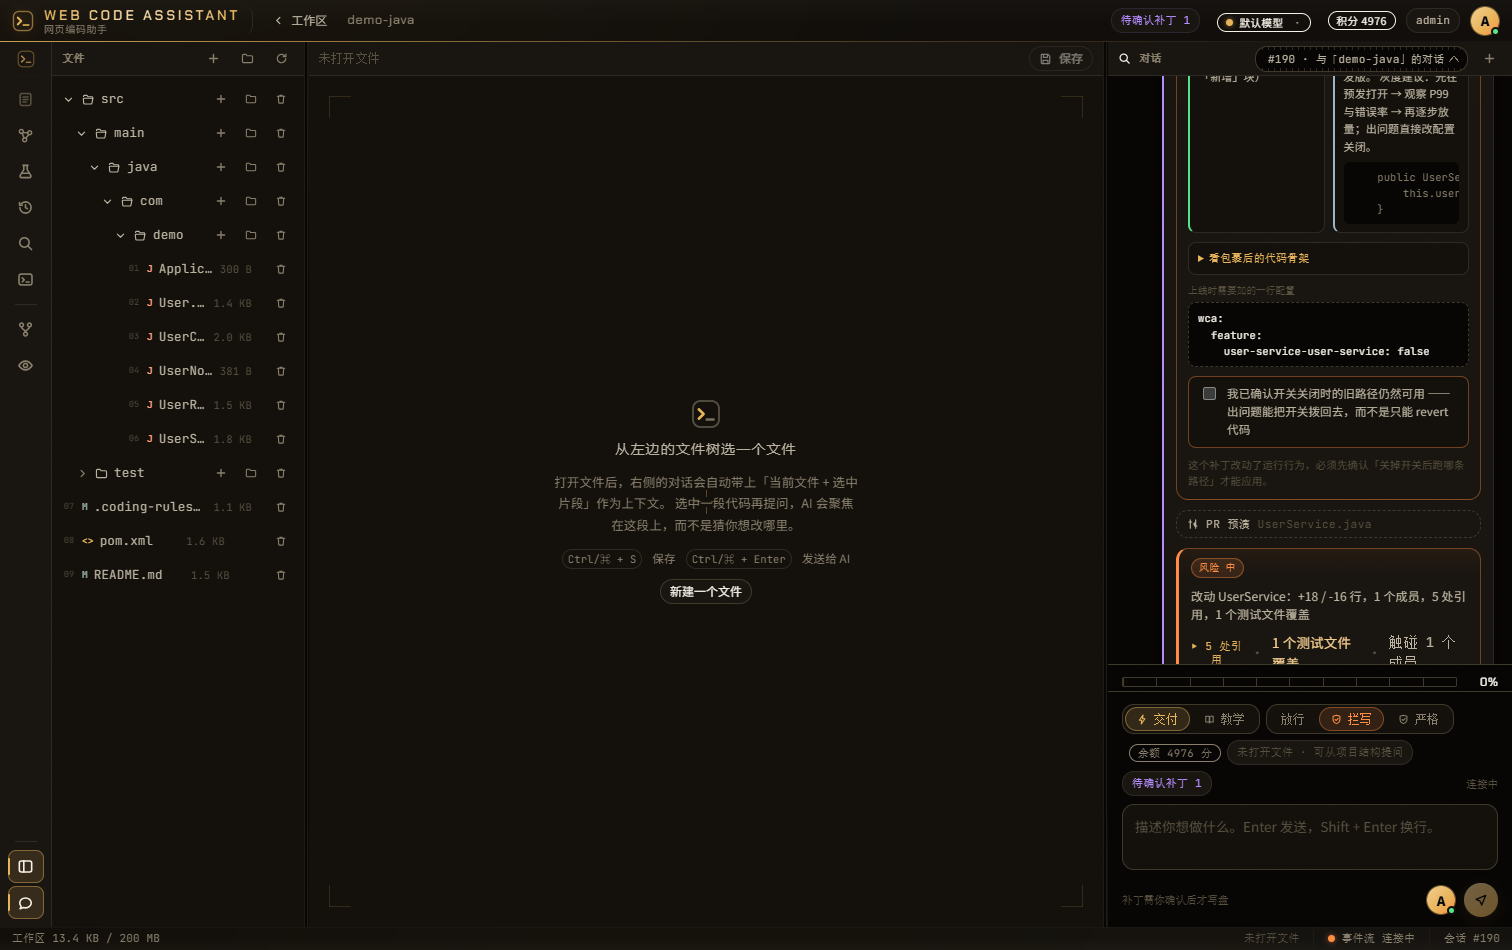
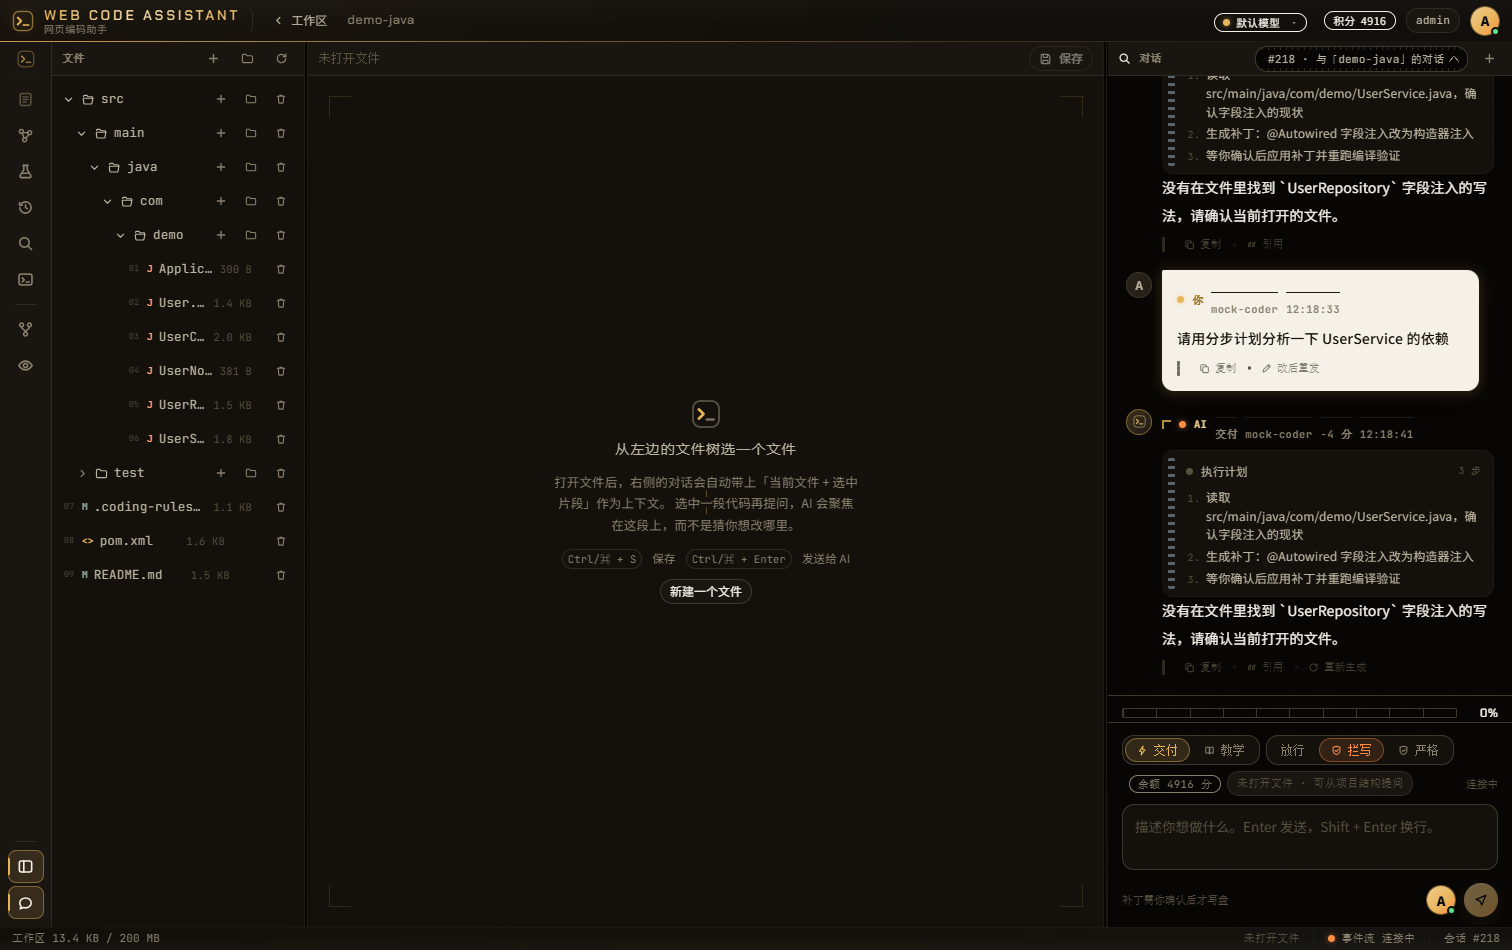
批35 显影三镜 + 修复回合切走丢失：计划卡显影进度条 / 工具卡参数铭牌 / 积分机械翻页 / live turn 按会话快照恢复

Changed region(s): [[0.746, 0.0611, 0.9947, 0.8547], [0.8082, 0.0, 0.9015, 0.0305], [0.746, 0.0, 0.7771, 0.0305]]

diff --git a/frontend/src/pages/IdePage.tsx b/frontend/src/pages/IdePage.tsx
@@ -338,11 +338,37 @@ export function IdePage({ workspaceId, username, onLogout }: IdePageProps) {
 
   // ------------------------------------------------------------ 可变引用
   const turnRef = useRef<LiveTurn | null>(null);
+  /**
+   * 每个会话的「进行中回合」快照（批35.1 修：切走再回来进度就没了）。
+   *
+   * 起因：切会话的 effect 原本无条件 setTurn(null)，于是「在 A 跑回合 → 点 + 建新会话 →
+   * 切回 A」时 A 的进度被抹掉；而 SSE 续流只回放 lastSeq 之后的帧，之前那段流式文本
+   * 与工具卡不会重播，于是看起来像「任务白跑了」。
+   *
+   * 现在：离开会话时把当前 turn 快照存进来，切回来先恢复快照，再由 SSE 续流把
+   * 断连期间的事件接上（lastSeqBySession 仍记着 seq，回放是补差，不是重跑）。
+   * 只存内存 —— 整页刷新仍然恢复不了（要彻底修得后端暴露「进行中回合」快照接口）。
+   */
+  const turnBySession = useRef<Map<number, LiveTurn>>(new Map());
+  /**
+   * 上一次「会话切换 effect」执行时的 sessionId。
+   *
+   * 为什么不能直接用 sessionIdRef：有个更早的 effect 会在每次渲染后把
+   * sessionIdRef.current 同步成新值，等切换 effect 跑到时它已经是「新会话」了 ——
+   * 拿它当旧会话会把 A 的回合存到 B 名下，切回 A 时反而恢复不出来。
+   */
+  const lastSwitchedSid = useRef<number | null>(null);
   const sessionIdRef = useRef<number | null>(null);
   const selectedPathRef = useRef<string | null>(null);
   const dirtyRef = useRef(false);
   /** 已经为哪些补丁发过影响面请求 —— 防止 patches 每次变化都重发一遍。 */
   const radiusRequested = useRef<Set<string>>(new Set());
+
+  /** 丢掉当前会话的回合快照 —— 回合落库或彻底失败后调用，否则切回会恢复出「幽灵进行中」。 */
+  const dropTurnSnapshot = () => {
+    const sid = sessionIdRef.current;
+    if (sid !== null) turnBySession.current.delete(sid);
+  };
   /** 同理，特性开关分析每个补丁只算一次。 */
   const flagRequested = useRef<Set<string>>(new Set());
   const handlersRef = useRef({
@@ -523,9 +549,19 @@ export function IdePage({ workspaceId, username, onLogout }: IdePageProps) {
   };
 
   useEffect(() => {
-    turnRef.current = null;
-    setTurn(null);
-    setSending(false);
+    // 离开旧会话：把「正在跑的回合」存进快照表，别让它随切会话蒸发。
+    const prevSid = lastSwitchedSid.current;
+    lastSwitchedSid.current = sessionId;
+    const prevTurn = turnRef.current;
+    if (prevSid !== null && prevSid !== sessionId && prevTurn) {
+      turnBySession.current.set(prevSid, prevTurn);
+    }
+
+    // 进入新会话：有快照就恢复（进行中态 + sending），没有才清空。
+    const restored = sessionId === null ? null : turnBySession.current.get(sessionId) ?? null;
+    turnRef.current = restored;
+    setTurn(restored);
+    setSending(restored !== null);
     setDiffPatch(null);
 
     if (sessionId === null) {
@@ -564,6 +600,8 @@ export function IdePage({ workspaceId, username, onLogout }: IdePageProps) {
     turnRef.current = null;
     setTurn(null);
     setSending(false);
+    // 回合落库了，快照就没用了 —— 不清的话下次进这个会话会恢复出一个「幽灵进行中」。
+    dropTurnSnapshot();
 
     if (finished && Number.isFinite(assistantMessageId)) {
       setMessages((list) => {
@@ -730,6 +768,7 @@ export function IdePage({ workspaceId, username, onLogout }: IdePageProps) {
           turnRef.current = null;
           setTurn(null);
           setSending(false);
+          dropTurnSnapshot();
           void refetchChat();
         } else {
           turnRef.current = { ...base, error: message };
@@ -752,6 +791,12 @@ export function IdePage({ workspaceId, username, onLogout }: IdePageProps) {
         );
         turnRef.current = { ...base, tools, stopped: true };
         setTurn(turnRef.current);
+        // 同步快照：若这个会话之前切走过（快照表里有旧副本），一并标记为已停止，
+        // 否则切回来会看到工具卡还在转。
+        const stopSid = sessionIdRef.current;
+        if (stopSid !== null && turnBySession.current.has(stopSid)) {
+          turnBySession.current.set(stopSid, { ...base, tools, stopped: true });
+        }
         return;
       }
 

diff --git a/frontend/src/styles/global.css b/frontend/src/styles/global.css
@@ -8650,3 +8650,127 @@ body {
     padding: 2px 7px 3px;
   }
 }
+
+/* ═══════════════════════════════════════════════════════════════════
+   批35「显影三镜」：把「正在发生」这件事画出来
+   ① 计划卡 live = 卡底显影进度条（循环推进的金线）
+   ② 工具卡 hover = 参数铭牌（键值对从右侧抽出）
+   ③ 顶栏积分变化 = 机械翻页计数（数字被拨动一次）
+   ═══════════════════════════════════════════════════════════════════ */
+
+/* ── ① 计划卡显影进度条 ──
+   模型正在按计划推进时，卡底一条 2px 金线从左循环推到右再从头开始 ——
+   「相纸在显影液里走一程」。用独立 scaleX 属性做，不用 width（触发布局）。
+   末端留一颗更亮的头，像显影前沿。 */
+.plan-develop {
+  position: absolute;
+  left: 0;
+  right: 0;
+  bottom: 0;
+  height: 2px;
+  overflow: hidden;
+  border-radius: 0 0 var(--radius) var(--radius);
+  background: color-mix(in srgb, var(--signal) 12%, transparent);
+  pointer-events: none;
+  z-index: 1;
+}
+
+/* 推进中的亮段：宽 38%，走完 2.4s 一轮 */
+.plan-develop::before {
+  content: '';
+  position: absolute;
+  inset: 0 auto 0 0;
+  width: 38%;
+  background: linear-gradient(
+    90deg,
+    transparent 0%,
+    color-mix(in srgb, var(--signal) 75%, transparent) 45%,
+    var(--signal) 92%,
+    transparent 100%
+  );
+  animation: develop-run 2.4s var(--ease-soft) infinite;
+}
+
+@keyframes develop-run {
+  from { translate: -100% 0; }
+  to { translate: 365% 0; }
+}
+
+/* ── ② 工具卡参数铭牌 ──
+   hover 时从右侧抽出一块「键 值」铭牌：像仪器侧面翻出来的说明牌。
+   默认只留 1px 的边（clipped），hover 展开 —— 不占常态版面。 */
+.tool-args-peek {
+  display: flex;
+  flex-direction: column;
+  gap: 2px;
+  max-height: 0;
+  overflow: hidden;
+  opacity: 0;
+  padding: 0 12px;
+  border-top: 1px solid transparent;
+  font-family: var(--font-mono);
+  font-size: 10.5px;
+  transition:
+    max-height var(--dur-2) var(--ease-out),
+    opacity var(--dur-1) var(--ease-soft),
+    padding var(--dur-2) var(--ease-out),
+    border-color var(--dur-2) var(--ease-out);
+}
+
+.tool-card:hover .tool-args-peek {
+  max-height: 44px;
+  opacity: 1;
+  padding: 6px 12px 7px;
+  border-top-color: var(--line);
+}
+
+.tool-peek-row {
+  display: flex;
+  align-items: baseline;
+  gap: 8px;
+  min-width: 0;
+}
+
+.tool-peek-key {
+  flex: none;
+  color: var(--signal-soft);
+  font-style: normal;
+  letter-spacing: 0.02em;
+}
+
+.tool-peek-key::after {
+  content: ':';
+  color: var(--fg-3);
+}
+
+.tool-peek-value {
+  min-width: 0;
+  overflow: hidden;
+  text-overflow: ellipsis;
+  white-space: nowrap;
+  color: var(--fg-2);
+}
+
+/* 聚焦也要能读到（键盘用户没有 hover）：focus-within 走同一套展开 */
+.tool-card:focus-within .tool-args-peek {
+  max-height: 44px;
+  opacity: 1;
+  padding: 6px 12px 7px;
+  border-top-color: var(--line);
+}
+
+/* ── ③ 顶栏积分机械翻页 ──
+   余额变了就重播一次翻页：数字从上一格翻到下一格（Y 轴滚一格 + 轻微透视）。
+   JSX 用 key={credits} 强制重挂载，动画才会重放。
+   to 帧显式写 translate: none —— 否则 fill:both 会留下永久合成层。 */
+.credit-flip {
+  display: inline-block;
+  font-variant-numeric: tabular-nums;
+  animation: credit-flip 480ms var(--ease-out) both;
+}
+
+@keyframes credit-flip {
+  0% { opacity: 0; translate: 0 -0.62em; scale: 1 0.72; }
+  55% { opacity: 1; }
+  100% { opacity: 1; translate: none; scale: 1 1; }
+}

diff --git a/frontend/src/components/ChatPane.tsx b/frontend/src/components/ChatPane.tsx
@@ -12,7 +12,7 @@ import type {
   PendingGate,
 } from '../lib/api';
 import { countInvalid } from '../lib/citations';
-import { MODE_META, streamLabel, summarizeToolArgs, toolLabel } from '../lib/chat';
+import { MODE_META, streamLabel, summarizeToolArgs, toolArgsPeek, toolLabel } from '../lib/chat';
 import type { LiveTurn, Selection, ToolItem } from '../lib/chat';
 import type { StreamStatus } from '../lib/sse';
 import { CitationText } from './CitationText';
@@ -835,6 +835,9 @@ function MessageBlock({
 function PlanCard({ steps, live }: { steps: string[]; live: boolean }) {
   return (
     <div className={`plan-card${live ? ' plan-card-live' : ''}`}>
+      {/* 批35：显影进度条 —— 计划推进中时卡底有一条循环推进的金线。
+          卡片两个伪元素都被批26 的齿孔条占着，这条进度用真实元素承载。 */}
+      {live && <span className="plan-develop" aria-hidden="true" />}
       <div className="plan-head">
         <span className={`dot ${live ? 'dot-warn' : 'dot-idle'}`} />
         <span>执行计划</span>
@@ -854,6 +857,9 @@ function ToolCard({ tool, now }: { tool: ToolItem; now: number }) {
   const tone = tool.status === 'failed' ? 'failed' : tool.status === 'running' ? 'pending' : '';
   const elapsed =
     tool.status === 'running' ? Math.max(0, Math.round((now - tool.startedAt) / 1000)) : null;
+  // 批35：参数铭牌 —— hover 时从右侧抽出「键 值」铭牌，像仪器上翻出来的说明牌。
+  // 只取前两个标量参数（长文本走 title 与点击展开的 JSON，不在这里堆版面）。
+  const peek = toolArgsPeek(tool.args);
 
   return (
     <div className={`tool-card ${tone}`}>
@@ -873,6 +879,17 @@ function ToolCard({ tool, now }: { tool: ToolItem; now: number }) {
             : tool.summary || (tool.status === 'done' ? '完成' : '失败')}
         </span>
       </div>
+
+      {peek.length > 0 && (
+        <div className="tool-args-peek" aria-hidden="true">
+          {peek.map((entry) => (
+            <span className="tool-peek-row" key={entry.key}>
+              <em className="tool-peek-key">{entry.key}</em>
+              <span className="tool-peek-value">{entry.value}</span>
+            </span>
+          ))}
+        </div>
+      )}
 
       {open && <pre className="tool-args">{JSON.stringify(tool.args ?? {}, null, 2)}</pre>}
     </div>

diff --git a/frontend/src/lib/chat.ts b/frontend/src/lib/chat.ts
@@ -113,6 +113,42 @@ export function summarizeToolArgs(name: string, args: unknown): string {
   }
 }
 
+export interface ToolArgPeek {
+  key: string;
+  value: string;
+}
+
+/**
+ * 工具参数铭牌（批35）：给工具卡 hover 用的一行「键 值」摘要。
+ *
+ * 规则：
+ *   - 只取标量（string/number/boolean），数组与对象不进铭牌 —— 它们属于点击展开的 JSON；
+ *   - 键名按工具语义排序：先 path/file 这类「定位参数」，再 pattern/query 这类「内容参数」，
+ *     这样 hover 出来第一行永远是用户最想确认的那个（读了哪个文件、搜了什么）；
+ *   - 单值超长截断（长 diff / 长代码进铭牌没有意义）。
+ */
+export function toolArgsPeek(args: unknown): ToolArgPeek[] {
+  const record = (args ?? {}) as Record<string, unknown>;
+  const rank = (key: string): number => {
+    if (key === 'path' || key === 'file') return 0;
+    if (key === 'pattern' || key === 'query' || key === 'glob') return 1;
+    if (key === 'summary' || key === 'mode' || key === 'name') return 2;
+    return 3;
+  };
+
+  const out: ToolArgPeek[] = [];
+  for (const [key, value] of Object.entries(record)) {
+    if (out.length >= 2) break;
+    if (typeof value === 'string') {
+      if (value.length === 0) continue;
+      out.push({ key, value: value.length > 28 ? `${value.slice(0, 28)}…` : value });
+    } else if (typeof value === 'number' || typeof value === 'boolean') {
+      out.push({ key, value: String(value) });
+    }
+  }
+  return out.sort((a, b) => rank(a.key) - rank(b.key));
+}
+
 export function messageOf(error: unknown): string {
   if (error instanceof HttpError) return error.message;
   if (error instanceof Error) return error.message;

diff --git a/frontend/src/components/TopBar.tsx b/frontend/src/components/TopBar.tsx
@@ -136,7 +136,13 @@ export function TopBar({
           }
         >
           {creditLow && <span className="dot dot-err" />}
-          积分 {credits}
+          积分{' '}
+          {/* 批35：机械翻页计数 —— key 绑余额，数值一变整颗数字重新挂载，
+              CSS 翻页动画重播一次（数字卡在机械计数器上被拨动的样子）。
+              key 不绑会让同一个 DOM 复用，动画只在首次挂载时放。 */}
+          <span className="credit-flip" key={credits}>
+            {credits}
+          </span>
         </button>
       )}
 
